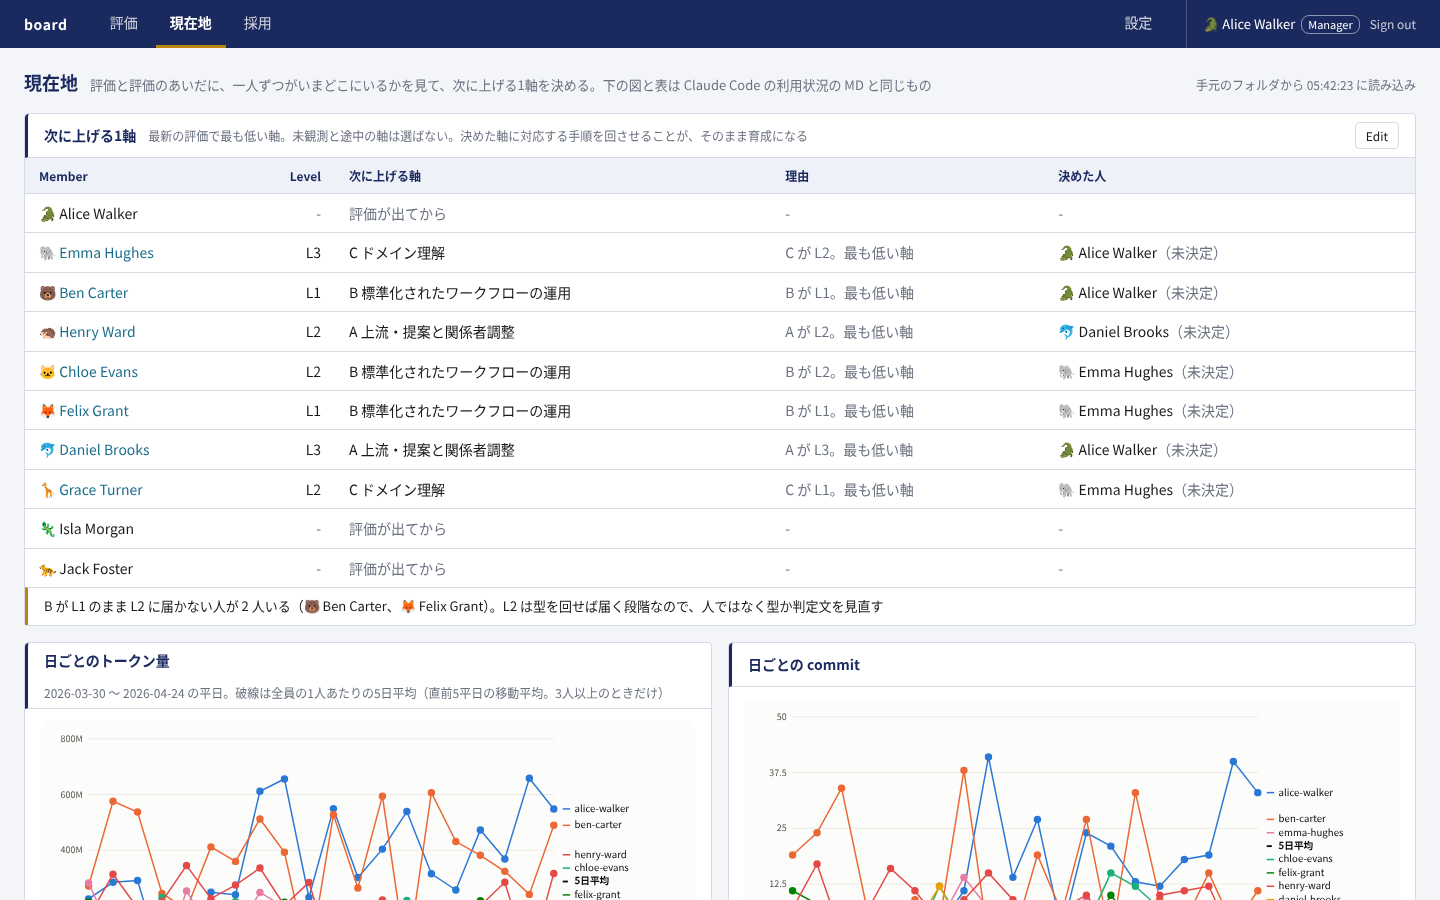
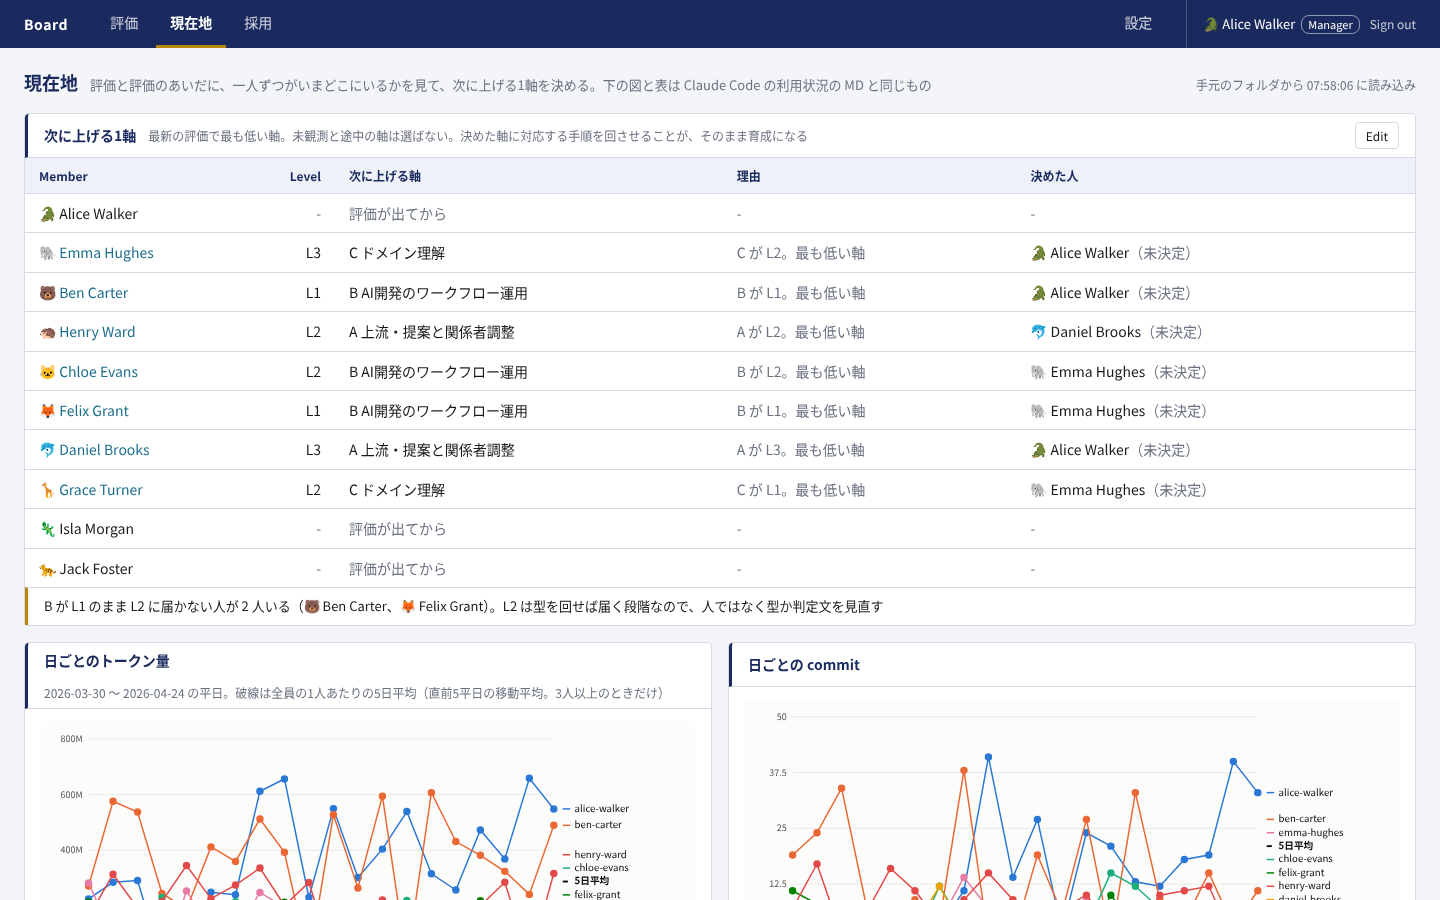
docs: Lead with connecting engineers' work to non-engineer deciders, and rename axis B
README の主張を「エンジニアの仕事と、それを評価するエンジニアでない人をつなぐ」に組み替え、B の軸の名前を「AI開発のワークフロー運用」に変えた。

- 冒頭と Why を、判断する人の側とエンジニアリングの側をつなぐ話から始め、1つの評価基準と5つのつながりはその手段として後ろに置いた
- How it works の図を、2つの側の境界と、その間をつなぐ Board の図に替えた。置き場（SQLite など）の図は外した
- アプリ名を Board、ディレクトリを board/ と書き分け、画面の見出しとタブ名も Board にした
- B の名前を ladder.md・スライド・画面の軸名で変え、広い意味の AI を使った開発の力は A・B・D に分けて測ることを ladder.md に足した
- スライドの PNG と README のスクリーンショットを撮り直した

diff --git a/ladder/slides.html b/ladder/slides.html
@@ -166,7 +166,7 @@ li::before{ content:""; position:absolute; left:.4mm; top:calc(.5lh - .75mm);
       <thead><tr><th class="num" style="width:14mm"></th><th style="width:95mm">軸</th><th>測るもの</th></tr></thead>
       <tbody>
         <tr><td class="num"><b style="font-size:17pt">A</b></td><td><b style="font-size:15pt">上流・提案と関係者調整</b></td><td>要件を引き出し、完了条件と非機能を定める。依頼元と社内の非開発者に対する説明と調整</td></tr>
-        <tr><td class="num"><b style="font-size:17pt;color:var(--gold)">B</b></td><td><b style="font-size:15pt">標準化されたワークフローの運用</b></td><td>配られた型の運用。回せる、選べる、直せる</td></tr>
+        <tr><td class="num"><b style="font-size:17pt;color:var(--gold)">B</b></td><td><b style="font-size:15pt">AI開発のワークフロー運用</b></td><td>配られた型の運用。回せる、選べる、直せる</td></tr>
         <tr><td class="num"><b style="font-size:17pt">C</b></td><td><b style="font-size:15pt">ドメイン理解</b></td><td>依頼元の業務と現行システムの把握、および関係者間での共有</td></tr>
         <tr><td class="num"><b style="font-size:17pt">D</b></td><td><b style="font-size:15pt">検証・品質保証</b></td><td>何を確かめれば正しいと言えるかの設計</td></tr>
         <tr><td class="num"><b style="font-size:17pt">E</b></td><td><b style="font-size:15pt">インフラ・基盤</b></td><td>環境とパイプラインの構築、構成の選定とリポジトリ全体の管理</td></tr>
@@ -230,7 +230,7 @@ li::before{ content:""; position:absolute; left:.4mm; top:calc(.5lh - .75mm);
         </tbody>
       </table>
       <table class="eq" style="flex:1">
-        <thead><tr><th style="width:14mm">Lv</th><th>B　標準化されたワークフローの運用</th></tr></thead>
+        <thead><tr><th style="width:14mm">Lv</th><th>B　AI開発のワークフロー運用</th></tr></thead>
         <tbody>
           <tr><td><span class="lv out">L1</span></td><td>型を渡されても回せず、個人の書き方で成果物を出す。詰まったことは聞かれてから報告する<div class="src">差し戻しレビューの回数</div></td></tr>
           <tr><td><span class="lv">L2</span></td><td>指示された手順を回し、標準の形の成果物を出せる。変更1本ごとに区切り、コミットで止まって承認を待てる<div class="src">PR の粒度、承認の残り方、配られたスキルの使用回数</div></td></tr>

diff --git a/board/app/templates/login.html b/board/app/templates/login.html
@@ -3,12 +3,12 @@
 <head>
 <meta charset="utf-8">
 <meta name="viewport" content="width=device-width, initial-scale=1">
-<title>Sign in — board</title>
+<title>Sign in — Board</title>
 <link rel="stylesheet" href="/static/board.css">
 {% if client_id and not demo %}<script src="https://accounts.google.com/gsi/client" async></script>{% endif %}
 </head>
 <body class="login">
-<nav class="top"><div class="inner"><a class="brand" href="/">board</a></div></nav>
+<nav class="top"><div class="inner"><a class="brand" href="/">Board</a></div></nav>
 <main class="signin">
   <section class="frame">
     <div class="head"><h2>Sign in</h2>{% if not demo %}<span class="note">@{{ domain }} の Google Workspace のアカウント</span>{% endif %}</div>

diff --git a/board/app/templates/base.html b/board/app/templates/base.html
@@ -3,13 +3,13 @@
 <head>
 <meta charset="utf-8">
 <meta name="viewport" content="width=device-width, initial-scale=1">
-<title>{% block title %}board{% endblock %}</title>
+<title>{% block title %}Board{% endblock %}</title>
 <link rel="stylesheet" href="/static/board.css">
 </head>
 <body>
 <nav class="top" aria-label="全体">
   <div class="inner">
-    <a class="brand" href="/">board</a>
+    <a class="brand" href="/">Board</a>
     {% if has_reviews %}<a href="/reviews" class="tab {{ 'on' if page in ('reviews', 'review') }}">評価</a>{% endif %}
     <a href="/now" class="tab {{ 'on' if page == 'now' }}">現在地</a>
     {% if can_hire %}<a href="/hiring" class="tab {{ 'on' if page in ('hiring', 'candidate') }}">採用</a>{% endif %}

diff --git a/board/app/templates/candidate.html b/board/app/templates/candidate.html
@@ -1,5 +1,5 @@
 {% extends "base.html" %}
-{% block title %}{{ candidate.name }} — 採用 — board{% endblock %}
+{% block title %}{{ candidate.name }} — 採用 — Board{% endblock %}
 {% block head %}<h1><a href="/hiring" class="back">採用</a> / {{ candidate.name }}</h1>
 <span class="note">{{ candidate.requisition or '応募枠なし' }} · Ladder v{{ candidate.version }}{% if candidate.source %} · {{ candidate.source }}{% endif %}{% if candidate.applied %} · {{ candidate.applied }} に応募{% endif %}</span>{% endblock %}
 {% block main %}

diff --git a/board/app/templates/review.html b/board/app/templates/review.html
@@ -1,6 +1,6 @@
 {% extends "base.html" %}
 {% from "_level.html" import axis, status %}
-{% block title %}{{ person.name }} — 評価 — board{% endblock %}
+{% block title %}{{ person.name }} — 評価 — Board{% endblock %}
 {% block head %}<h1><a href="/reviews?period={{ period }}" class="back">評価</a> / {{ person.name }}</h1>
 <span class="note">{{ period }}{% if review %} · Ladder v{{ review.version }}{% endif %} · Reviewer {{ person.evaluator_name or 'Unassigned' }}</span>{% endblock %}
 {% block main %}

diff --git a/board/app/templates/hiring.html b/board/app/templates/hiring.html
@@ -1,6 +1,6 @@
 {% extends "base.html" %}
 {% from "_level.html" import axis %}
-{% block title %}採用 — board{% endblock %}
+{% block title %}採用 — Board{% endblock %}
 {% block head %}<h1>採用</h1><span class="note">採用枠ごとに、求める高さと候補者の軸の段階を並べる。面接の判定は Drive の <code>candidates/</code> のシートに書き、選考の段階はここで進める</span>{% endblock %}
 {% block main %}
 {% for o in openings %}

diff --git a/board/app/templates/now_member.html b/board/app/templates/now_member.html
@@ -1,5 +1,5 @@
 {% extends "base.html" %}
-{% block title %}{{ person.name }} — 現在地 — board{% endblock %}
+{% block title %}{{ person.name }} — 現在地 — Board{% endblock %}
 {% block head %}<h1><a href="/now" class="back">現在地</a> / {{ person.name }}</h1>{% if usage %}<span class="note">{{ usage.since }} 〜 {{ usage.until }} の平日</span>{% endif %}{% endblock %}
 {% block main %}
 {% if row %}{% set nx = row.chosen or row.suggested %}

diff --git a/board/app/templates/reviews.html b/board/app/templates/reviews.html
@@ -1,6 +1,6 @@
 {% extends "base.html" %}
 {% from "_level.html" import axis, status %}
-{% block title %}評価 — board{% endblock %}
+{% block title %}評価 — Board{% endblock %}
 {% block head %}<h1>評価</h1><span class="note">Reviewer ごとの進み具合と、一人ずつの段階。判定は Drive の <code>reviews/{{ period or '<期>' }}/</code> のシートに書く</span>{% endblock %}
 {% block main %}
 {% if periods|length > 1 %}

diff --git a/board/app/templates/now.html b/board/app/templates/now.html
@@ -1,5 +1,5 @@
 {% extends "base.html" %}
-{% block title %}現在地 — board{% endblock %}
+{% block title %}現在地 — Board{% endblock %}
 {% block head %}<h1>現在地</h1><span class="note">評価と評価のあいだに、一人ずつがいまどこにいるかを見て、次に上げる1軸を決める。下の図と表は Claude Code の利用状況の MD と同じもの</span>{% endblock %}
 {% block main %}
 

diff --git a/board/app/templates/settings.html b/board/app/templates/settings.html
@@ -1,5 +1,5 @@
 {% extends "base.html" %}
-{% block title %}設定 — board{% endblock %}
+{% block title %}設定 — Board{% endblock %}
 {% block head %}<h1>設定</h1><span class="note">Ladder・Reviewer・採用枠。評価を回す前に決めておく</span>{% endblock %}
 {% block main %}
 {% set d = definition %}

diff --git a/board/app/main.py b/board/app/main.py
@@ -21,7 +21,7 @@ from .usage import sync_usage
 
 logger = logging.getLogger(__name__)
 HERE = Path(__file__).resolve().parent
-AXIS_NAMES = {"A": "上流・提案と関係者調整", "B": "標準化されたワークフローの運用", "C": "ドメイン理解", "D": "検証・品質保証", "E": "インフラ・基盤"}
+AXIS_NAMES = {"A": "上流・提案と関係者調整", "B": "AI開発のワークフロー運用", "C": "ドメイン理解", "D": "検証・品質保証", "E": "インフラ・基盤"}
 
 
 def make_source(cfg: config.Config):

diff --git a/README.en.md b/README.en.md
@@ -4,8 +4,8 @@
 
 [![board](https://github.com/yktsnet/mgmt-kit/actions/workflows/board.yml/badge.svg)](https://github.com/yktsnet/mgmt-kit/actions/workflows/board.yml)
 
-board is a web app for teams building with AI agents that runs hiring, growth and reviews on one set of criteria, the five-axis, five-level ladder.
-Reviewers only write verdicts and evidence in a spreadsheet; board decides the levels and shows each role only what it should see.
+This repository connects the work of teams building with AI agents to the people who evaluate it but are not engineers, so hiring, growth and reviews are decided on one set of criteria.
+At its center is the web app Board; verdicts only need to be written in a familiar spreadsheet.
 
 Documents linked from this page are in Japanese unless noted.
 
@@ -20,9 +20,14 @@ Documents linked from this page are in Japanese unless noted.
 
 ## Why
 
-Once a team builds with AI agents, differences between people also show in whether they run the distributed workflows and how they use AI. But when everyone's output takes a different shape, you cannot tell a difference in substance from a difference in format. Run hiring, growth and reviews as separate systems and each has its own scale, and people end up reconciling the gaps between them forever.
+Hiring, growth and reviews are often decided by people who are not engineers, such as executives and HR. But engineers' work shows up in repository output and in how they use AI, which those people find hard to read. Decide without being able to read it, and the criteria vary with whoever is looking, and hiring, growth and reviews each run on their own scale. People end up reconciling the gaps between them forever.
 
-So mgmt-kit judges all three on one set of criteria. What gets read is the standardized output that comes from running the distributed workflows, and the record of running them.
+So mgmt-kit connects the people who decide and the engineering side.
+
+- **Leave the deciders' way of working alone.** Verdicts and interview notes only need to be written in the spreadsheets people already use. Board reads them and turns them into levels, and setting up and running Board is engineering's job
+- **Make the work readable on one set of criteria.** Distribute workflows (standardized development procedures) so output takes the same shape, and judge hiring, growth and reviews on ladder, a five-axis, five-level set of criteria
+
+The second point, one set of criteria, only works when these five are connected.
 
 - **Decide the axes.** Once you know what to measure, you know what standardization has to align
 - **Distribute the workflows.** When a team runs standardized procedures, its output takes the same shape
@@ -30,11 +35,9 @@ So mgmt-kit judges all three on one set of criteria. What gets read is the stand
 - **Evaluate.** Only once there is something to read can you judge what level a person is at
 - **Measure members and candidates on one scale.** The axes are shared; only the evidence changes
 
-The point is that these five are connected. Build only the axes and there is nothing to measure. Build only the standardization and nobody can tell whether it is working. Hire on a separate standard and the scale no longer fits once you start growing the people you hired.
+Build only the axes and there is nothing to measure. Build only the standardization and nobody can tell whether it is working. Hire on a separate standard and the scale no longer fits once you start growing the people you hired.
 
 The axes come before the workflows. Standardize first and alignment stops at format. Each verdict maps one-to-one to a place in the workflows; if a verdict points somewhere the workflows do not have, one of them is wrong. Distributing the workflows is the job of [sdlc-kit](https://github.com/yktsnet/sdlc-kit).
-
-Reviewers do not have to learn a new tool. Non-engineers write in the spreadsheets they already use; connecting them is engineering's job.
 
 ## Quick Start
 
@@ -46,28 +49,35 @@ docker compose up
 
 Open http://localhost:8000. With no configuration, it starts in demo mode on the ten fictional members and candidates in `board/samples/`; pick a member on the login screen. Settings, review states and records live in a volume, so they survive `docker compose down` and `up`.
 
-To sign in with real Google accounts and read sheets from Drive, configure board with environment variables. They come in three groups: sign-in (`BOARD_GOOGLE_CLIENT_ID`, `BOARD_ALLOWED_DOMAIN`, `BOARD_MANAGERS`, `BOARD_SESSION_KEY`), reading the sheets (`BOARD_SOURCE`, `BOARD_DRIVE_FOLDER_ID`, `BOARD_SERVICE_ACCOUNT_KEY`, `BOARD_SYNC_INTERVAL`) and usage data (`BOARD_USAGE_DIR`). What each value means, and the setup steps, are in [board/docs/setup.md](board/docs/setup.md).
+To sign in with real Google accounts and read sheets from Drive, configure Board with environment variables. They come in three groups: sign-in (`BOARD_GOOGLE_CLIENT_ID`, `BOARD_ALLOWED_DOMAIN`, `BOARD_MANAGERS`, `BOARD_SESSION_KEY`), reading the sheets (`BOARD_SOURCE`, `BOARD_DRIVE_FOLDER_ID`, `BOARD_SERVICE_ACCOUNT_KEY`, `BOARD_SYNC_INTERVAL`) and usage data (`BOARD_USAGE_DIR`). What each value means, and the setup steps, are in [board/docs/setup.md](board/docs/setup.md).
 
 ## How it works
 
 ```mermaid
 flowchart TD
-    R([Reviewers / interviewers]) ==>|write| S[/Spreadsheets on Drive<br>reviews, candidates, interviews/]
-    M([Manager]) ==>|edits| UI
-    S -.->|reread by modified time| B{{board}}
-    U[/Claude Code usage data/] -.-> B
-    B --> DB[(SQLite<br>settings, states, records)]
-    DB --> UI[Screens]
+    subgraph P[People who decide]
+        H([Reviewers, interviewers, execs]) ==>|write verdicts| S[/Spreadsheets/]
+    end
+    subgraph E[Engineering side]
+        W[/Repository output/]
+        U[/AI usage data/]
+        L[(ladder definition)]
+    end
+    W ==>|read| H
+    S -.-> B{{Board}}
+    U -.-> B
+    L --> B
+    B -.->|levels, next axis| H
 ```
 
-The sheets are input written by people, and board reads them as a copy. The definition and its versions, members and roles, openings, and the states and records of reviews and hiring live only in board's SQLite and are never duplicated in the sheets. The sheet format is in [board/docs/sheets.md](board/docs/sheets.md).
+The people who write verdicts do not need to be engineers. People decide whether to hire and which axis to raise next; Board lays out what they need to decide. Sheets are only read as a copy; the definition, members and roles, openings, and the states of reviews and hiring live only in Board. The sheet format is in [board/docs/sheets.md](board/docs/sheets.md).
 
 ### Inputs
 
-| Input | How board uses it | Location |
+| Input | How Board uses it | Location |
 |---|---|---|
-| ladder | Five axes, five levels and a verdict text for each cell. It becomes the first version of board's definition, which is then refined in board's settings | `ladder/` |
-| usage | Claude Code usage data. Adds skill counts to the items of axis B (running the distributed workflows) and shows usage on the Now tab | `usage/` |
+| ladder | Five axes, five levels and a verdict text for each cell. It becomes the first version of Board's definition, which is then refined in Board's settings | `ladder/` |
+| usage | Claude Code usage data. Adds skill counts to the items of axis B (running AI development workflows) and shows usage on the Now tab | `usage/` |
 
 usage adds three views to a review. Standardization is counted by skill runs and names, and the amount of work by issues, PRs, commits and lines. For the amount of input, look at the absolute amount first, and at how efficiently it is used once there is enough. What it looks like when all three are in place, and what to do for each way it breaks down, is in [the target state](usage/tools/usage/claude-code/README.md#あるべき姿).
 
@@ -82,9 +92,9 @@ usage adds three views to a review. Standardization is counted by skill runs and
 
 Roles can overlap. The rules for what each role sees, and why, are under "見せる範囲" in [board/docs/decisions.md](board/docs/decisions.md).
 
-## Without board
+## Without Board
 
-You can also bring in just the ladder and the usage reports, without board.
+You can also bring in just the ladder and the usage reports, without Board.
 
 **Scoring skill**: copy it, together with `docs/`, into the repository that holds the work of the person being scored. A score is the five axis scores, the level and the one axis to raise next, and it is not written to a file by default. Whoever decides to keep scores decides first where they go and how real names are handled.
 
@@ -121,7 +131,7 @@ Then follow "導入の手順" (setup) in the copied [tools/usage/README.md](usag
 | [ladder/docs/adapt.md](ladder/docs/adapt.md) | What to replace when bringing it into your company |
 | [ladder/docs/ref/sources.md](ladder/docs/ref/sources.md) | The public ladders it builds on, and their licenses |
 | [ladder/README.md](ladder/README.md) | Slides that give the whole ladder at a glance |
-| [board/README.md](board/README.md) | Entry point for people changing board |
+| [board/README.md](board/README.md) | Entry point for people changing Board |
 | [training/README.md](training/README.md) | A proposal for AI study sessions for engineers placed at client sites |
 
 ## License
